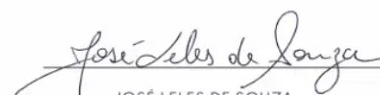
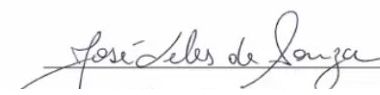
fix: remover vestigios do texto escaneado abaixo da linha de assinatura de Jose Leles

diff --git a/criar-certificado-condutor.html b/criar-certificado-condutor.html
@@ -1175,7 +1175,7 @@
 
                         <!-- BLOCO DE ASSINATURA & DIRETORIA (100% VISÍVEL, FINO, NÍTIDO E DIGITÁVEL) -->
                         <div class="cert-signature-block">
-                            <img id="viewSigImg" src="assets/sig_jose_leles.png" class="cert-signature-img" alt="Assinatura Diretor">
+                            <img id="viewSigImg" src="assets/sig_jose_leles.png?v=2" class="cert-signature-img" alt="Assinatura Diretor">
                             <div class="cert-sig-name" id="viewDiretorNome">JOSÉ LELES DE SOUZA</div>
                             <div class="cert-sig-cargo" id="viewDiretorCargo">Diretor Geral - ICETRAN</div>
                             <div class="cert-sig-cpf" id="viewDiretorCpf">CPF 565.550.406-53</div>
@@ -1450,7 +1450,7 @@
                 nome: 'JOSÉ LELES DE SOUZA',
                 cargo: 'Diretor Geral - ICETRAN',
                 cpf: '565.550.406-53',
-                sigImg: 'assets/sig_jose_leles.png'
+                sigImg: 'assets/sig_jose_leles.png?v=2'
             },
             sidnei_schmidt: {
                 nome: 'SIDNEI SCHMIDT',
@@ -1484,7 +1484,7 @@
             }
         };
 
-        let currentDirectorSig = 'assets/sig_jose_leles.png';
+        let currentDirectorSig = 'assets/sig_jose_leles.png?v=2';
 
         function applyDirectorPreset(key) {
             if (key === 'custom') return;
@@ -1542,7 +1542,7 @@
             document.getElementById('inpDataExtenso').value = DEFAULT_CERT.dataExtenso;
             const selDir = document.getElementById('selDiretorPredefinido');
             if (selDir) selDir.value = 'jose_leles';
-            currentDirectorSig = 'assets/sig_jose_leles.png';
+            currentDirectorSig = 'assets/sig_jose_leles.png?v=2';
             const sigEl = document.getElementById('viewSigImg');
             if (sigEl) sigEl.src = currentDirectorSig;
             document.getElementById('inpDiretorNome').value = DEFAULT_CERT.diretorNome;
